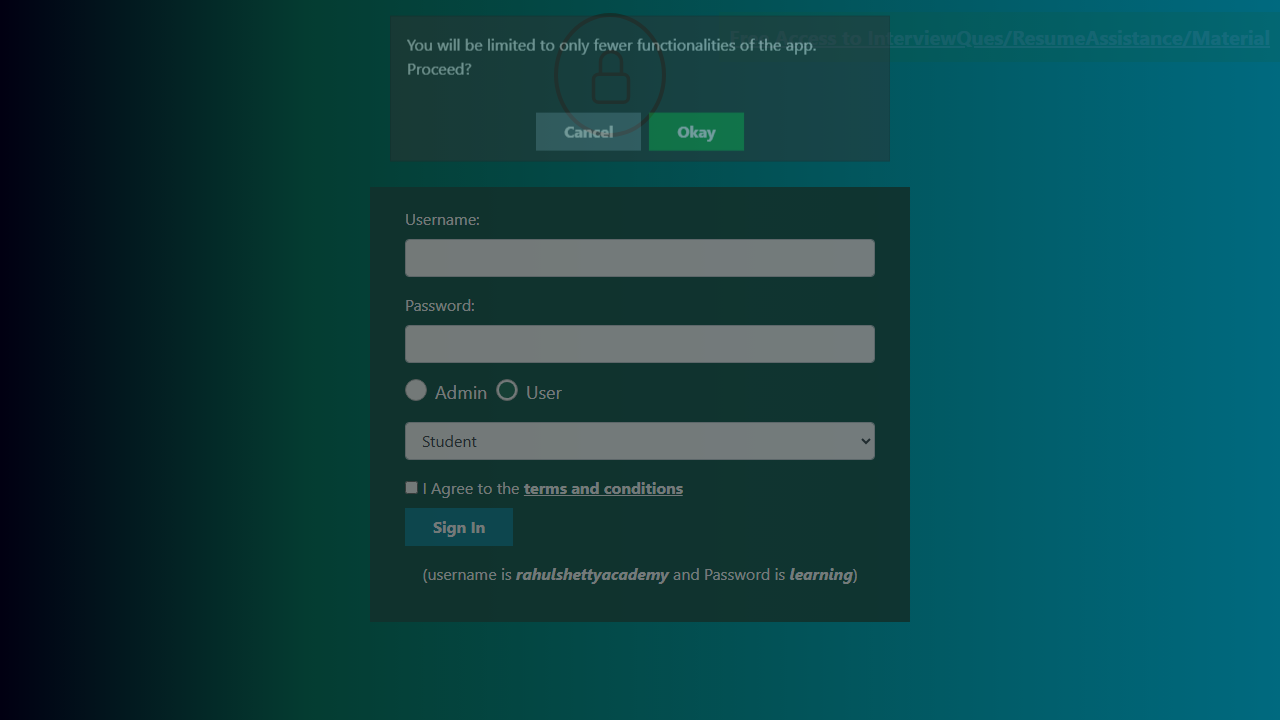
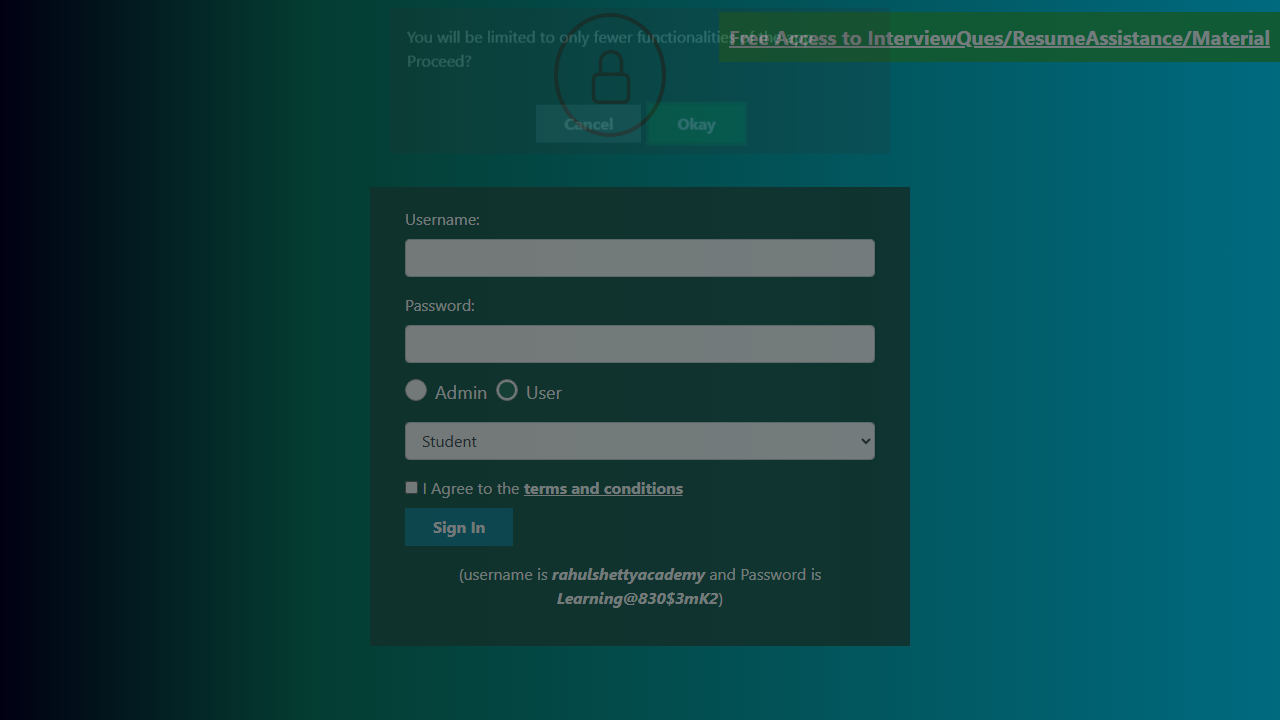
Updating project

Changed region(s): [[0.3125, 0.0, 1.0, 0.1222], [0.3125, 0.7944, 0.7188, 0.9167], [0.4062, 0.1528, 0.5938, 0.2139]]

diff --git a/tests/Practice4_MS-Risk.spec.js b/tests/Practice4_MS-Risk.spec.js
@@ -1,0 +1,77 @@
+import { test, expect } from '@playwright/test';
+
+test('MSI Risk Form', async ({ page }) => {
+
+    test.setTimeout(60000); // increased timeout for stability
+
+    // Dynamic data
+    const assignmentTitle = 'Risk-PW JAN31-2nd time';
+    const OwnerOrg = 'ACME Corp';
+    const Owner = 'ORM Admin';
+    const Username = 'ORM_Program_Manager';
+    const Password = 'welcome*12';
+    const DescriptionText = 'Description entered';
+    const Category = 'Business Strategy';
+    const level = 'Level 1';
+
+    // Login
+    await page.goto('https://e1-poc-sandbox.a99d04.metricstream.com/metricstream/auth/signin.jsp');
+    await page.getByRole('textbox', { name: 'Username' }).fill(Username);
+    await page.getByRole('textbox', { name: 'Password' }).fill(Password);
+    await page.getByRole('button', { name: 'Sign In' }).click();
+
+    // Navigate to form
+    await page.getByRole('link', { name: 'Libraries' }).click();
+    await page.getByRole('button', { name: 'Forms' }).click();
+    await page.getByRole('link', { name: 'Open Form Risk' }).click();
+
+    // Fill Title
+    const nameField = page.getByRole('textbox', { name: 'Name' });
+    await nameField.fill(assignmentTitle);
+    await expect(nameField).toHaveValue(assignmentTitle);
+    // Select Level
+    await page.getByRole('combobox', { name: /^Level:/ }).click();
+    await page.getByRole('option', { name: level }).click();
+    // Fill Description
+    await page.locator('#rtfDataread_DESCRIPTION').click();
+    const DescriptionFrame = page.frameLocator('#mce_0_ifr');
+    await DescriptionFrame.getByLabel('DESCRIPTION').fill(DescriptionText);
+    await page.getByRole('button', { name: 'Save Changes' }).click();
+    // Select Category
+    await page.getByRole('combobox', { name: 'Categories' }).click();
+    await page.locator('.select2-result-label').filter({ hasText: Category }).click();
+    await page.keyboard.press('Escape');
+
+
+    // Select Owner Organization
+
+    await page.getByTitle('Owner Organizations, Press to Change  required').click();
+    await page.waitForTimeout(10000);
+    await page.locator('.filterText').fill(OwnerOrg);
+    await page.keyboard.press('Enter');
+    await page.getByRole('treeitem', { name: OwnerOrg }).check();
+    await page.getByRole('button', { name: 'Add' }).click();
+
+    // Select User dynamically
+    await page.getByTitle('Owners, Press to Change').click();
+    await page.getByPlaceholder('Type a name').fill(Owner);
+    await page.keyboard.press('Enter');
+    await expect(Owner).toBeVisible()
+    const userCheckboxLocator = page.getByRole('checkbox', { name: `${Owner}, Select the row` });
+    await userCheckboxLocator.waitFor({ state: 'visible' });
+    await userCheckboxLocator.check();
+    await page.getByRole('button', { name: 'Done' }).click();
+
+
+    // Submission
+    await page.getByRole('button', { name: 'Send for Approval' }).click();
+    await page.getByRole('button', { name: 'Submit' }).click();
+    const successMessage = page.getByText('Form submitted successfully');
+    await expect(successMessage).toBeVisible();
+    await successMessage.screenshot({ path: 'tests/screenshots/MS-Risk-Form-Submission.png' });
+
+    /*await page.locator('div.users-icon:visible').hover();
+    await page.locator('a').filter({ hasText: 'Sign Out' }).last().click();*/
+
+
+});

diff --git a/tests/API_Process.spec.js b/tests/API_Process.spec.js
@@ -1,0 +1,46 @@
+const { test, expect, request } = require('@playwright/test');
+
+// Placeholders - replace with actual MSI API endpoints and credentials
+const MSI_BASE_URL = 'https://e1-poc-sandbox.a99d04.metricstream.com'; // Example base URL
+const MSI_AUTH_PATH = '/metricstream/auth/login'; // Placeholder auth endpoint
+const MSI_CREATE_PROCESS_PATH = '/metricstream/api/process/create'; // Placeholder create process endpoint
+
+const loginPayLoad = { username: "ORM_Program_Manager", password: "welcome*12" }; // Adjust payload structure
+const processPayLoad = {
+    name: "API Process",
+    description: "Description entered",
+    businessCriticality: "High",
+    ownerOrg: "ACME Corp",
+    owner: "ERM Admin"
+    // Add other required fields based on API docs
+};
+
+let response;
+
+test.beforeAll(async () => {
+    const apiContext = await request.newContext();
+    // Authenticate and get token
+    const loginResponse = await apiContext.post(`${MSI_BASE_URL}${MSI_AUTH_PATH}`, {
+        data: loginPayLoad
+    });
+    const loginJson = await loginResponse.json();
+    const token = loginJson.token; // Adjust based on response structure
+
+    // Create Process
+    const processResponse = await apiContext.post(`${MSI_BASE_URL}${MSI_CREATE_PROCESS_PATH}`, {
+        data: processPayLoad,
+        headers: {
+            'Authorization': `Bearer ${token}`, // Adjust auth header
+            'Content-Type': 'application/json'
+        }
+    });
+    response = await processResponse.json();
+    console.log('Process creation response:', response);
+});
+
+test('API Create MSI Process', async () => {
+    // Assertions based on response
+    expect(response).toHaveProperty('id'); // Adjust based on API response
+    expect(response.name).toBe('API Process');
+    // Add more assertions as needed
+});

diff --git a/POM/Login.js b/POM/Login.js
@@ -1,0 +1,20 @@
+
+class LoginPage {
+  constructor(page) {
+    this.page = page;
+    this.usernameInput = page.getByRole('textbox', { name: 'Username' });
+    this.passwordInput = page.getByRole('textbox', { name: 'Password' });
+    this.loginButton = page.getByRole('button', { name: 'Sign In' });
+  }
+
+  async openApplication() {
+  await this.page.goto('https://e1-poc-sandbox.a99d04.metricstream.com/metricstream/auth/signin.jsp');
+}
+
+  async login(username, password) {
+    await this.usernameInput.fill(username);
+    await this.passwordInput.fill(password);
+    await this.loginButton.click();
+  }
+}
+module.exports = LoginPage;

diff --git a/POM/ReportsPage.js b/POM/ReportsPage.js
@@ -1,0 +1,18 @@
+class ReportsPage {
+  constructor(page) {
+    this.page = page;
+    this.searchBox = page.locator('#reportSearch');
+    this.searchButton = page.locator('#searchBtn');
+    this.resultRow = page.locator('#reportResult');
+  }
+
+  async searchProcess(processName) {
+    await this.searchBox.fill(processName);
+    await this.searchButton.click();
+  }
+
+  async getProcessName() {
+    return await this.resultRow.textContent();
+  }
+}
+module.exports = ReportsPage;

diff --git a/POM/InitiationStage.js b/POM/InitiationStage.js
@@ -1,0 +1,14 @@
+
+class InitiationPage {
+  constructor(page) {
+    this.page = page;
+    this.processNameInput = page.locator('#processName');
+    this.submitButton = page.locator('#submitProcess');
+  }
+
+  async initiateProcess(name) {
+    await this.processNameInput.fill(name);
+    await this.submitButton.click();
+  }
+}
+module.exports = InitiationPage;

diff --git a/tests/PracticePOM-IMP.spec.js b/tests/PracticePOM-IMP.spec.js
@@ -1,0 +1,9 @@
+import { test, expect } from '@playwright/test';
+import LoginPage from '../POM/Login';
+
+test('Practice POM Login MSI page', async ({ page }) => {
+  const loginPage = new LoginPage(page);
+  await loginPage.openApplication(); // URL is hardcoded in POM
+  await loginPage.login('ORM_Program_Manager', 'welcome*12');
+  
+});

diff --git a/POM/Level1Stage.js b/POM/Level1Stage.js
@@ -1,0 +1,11 @@
+class Level1Page {
+  constructor(page) {
+    this.page = page;
+    this.approveButton = page.locator('#level1Approve');
+  }
+
+  async approveProcess() {
+    await this.approveButton.click();
+  }
+}
+module.exports = Level1Page;

diff --git a/POM/OwnerStage.js b/POM/OwnerStage.js
@@ -1,0 +1,12 @@
+
+class OwnerPage {
+  constructor(page) {
+    this.page = page;
+    this.approveButton = page.locator('#ownerApprove');
+  }
+
+  async approveProcess() {
+    await this.approveButton.click();
+  }
+}
+module.exports = OwnerPage;
